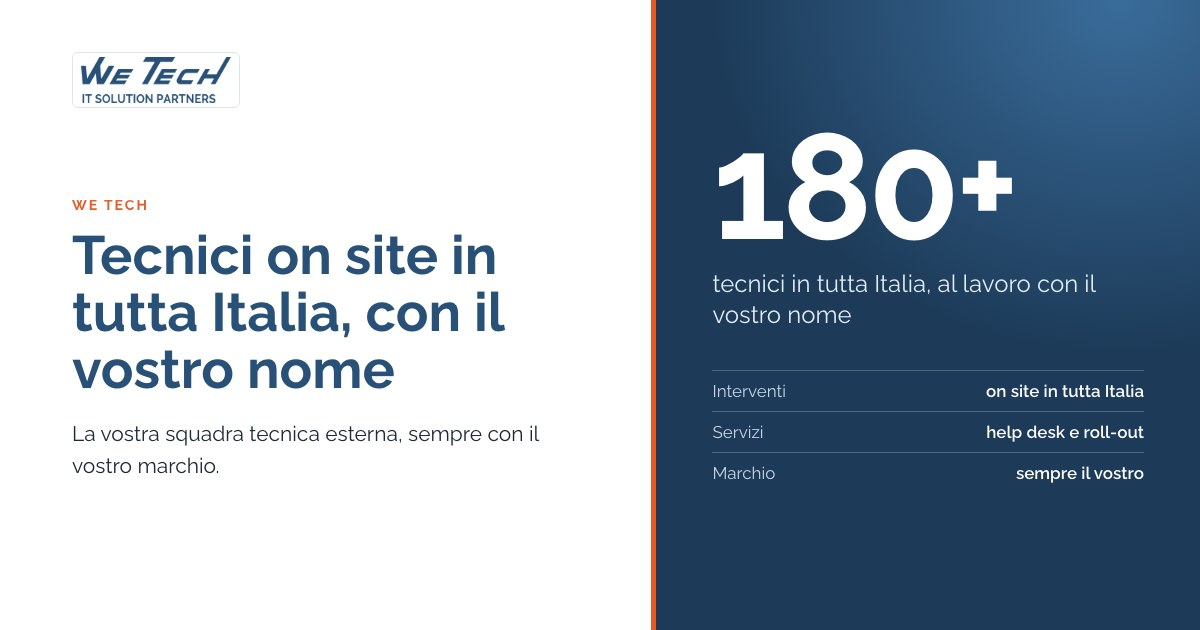
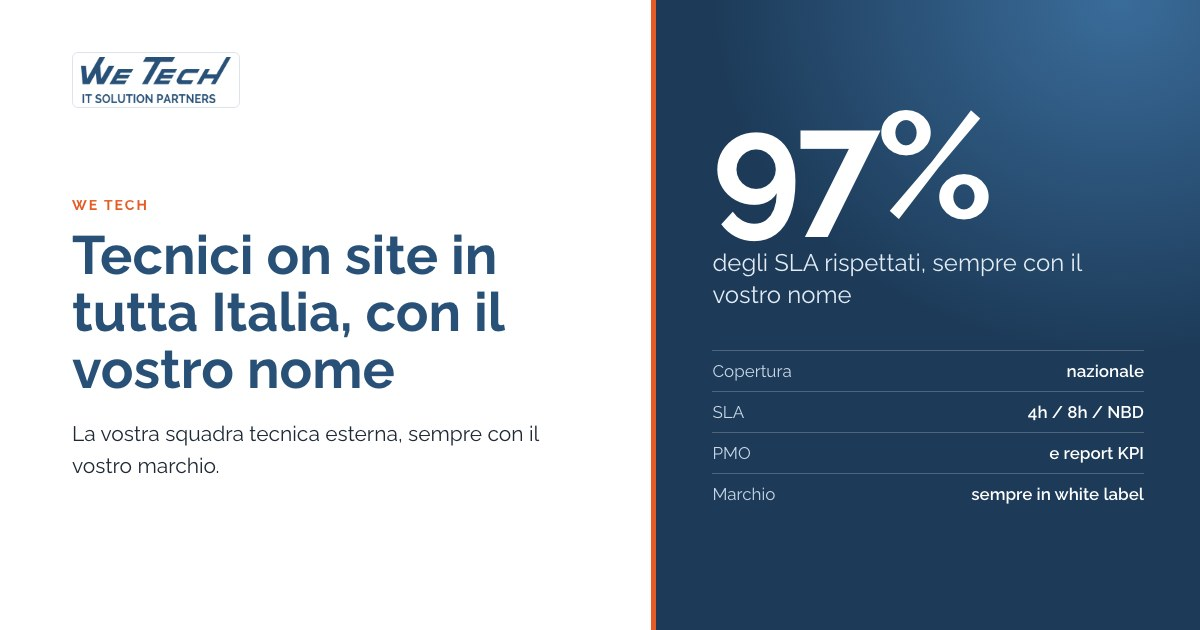
We Tech: via 180+ tecnici (non sul sito), pannello con 97% SLA, SLA 4h/8h/NBD, PMO e KPI, white label

Changed region(s): [[0.5858, 0.1508, 0.925, 0.5127], [0.8017, 0.573, 0.9558, 0.8143], [0.5858, 0.573, 0.6783, 0.8143]]

diff --git a/wetech/esempio/index.html b/wetech/esempio/index.html
@@ -128,7 +128,7 @@ html.phone .cover .r{flex:0 0 26%;border-left:0;border-top:4px solid var(--red)}
       <p class="sub">In queste pagine trova come We Tech può essere la squadra tecnica on site di Esempio Sistemi, sempre con il vostro marchio.</p>
     </div>
   </div>
-  <div class="r hv" aria-hidden="true"><div class="big">180+</div><div class="cap">tecnici in tutta Italia, al lavoro con il vostro nome</div><div class="tl"><span>Interventi<b>on site in tutta Italia</b></span><span>Servizi<b>help desk e roll-out</b></span><span>Marchio<b>sempre il vostro</b></span></div></div>
+  <div class="r hv" aria-hidden="true"><div class="big">97%</div><div class="cap">degli SLA rispettati, sempre con il vostro nome</div><div class="tl"><span>Copertura<b>nazionale</b></span><span>SLA<b>4h / 8h / NBD</b></span><span>PMO<b>e report KPI</b></span><span>Marchio<b>sempre in white label</b></span></div></div>
 </div></section>
 <section data-i="2" aria-label="Cosa facciamo"><div class="s">
   <div class="eyebrow">Cosa facciamo</div>

diff --git a/wetech/_src/template.html b/wetech/_src/template.html
@@ -128,7 +128,7 @@ html.phone .cover .r{flex:0 0 26%;border-left:0;border-top:4px solid var(--red)}
       <p class="sub">{{SUB}}</p>
     </div>
   </div>
-  <div class="r hv" aria-hidden="true"><div class="big">180+</div><div class="cap">tecnici in tutta Italia, al lavoro con il vostro nome</div><div class="tl"><span>Interventi<b>on site in tutta Italia</b></span><span>Servizi<b>help desk e roll-out</b></span><span>Marchio<b>sempre il vostro</b></span></div></div>
+  <div class="r hv" aria-hidden="true"><div class="big">97%</div><div class="cap">degli SLA rispettati, sempre con il vostro nome</div><div class="tl"><span>Copertura<b>nazionale</b></span><span>SLA<b>4h / 8h / NBD</b></span><span>PMO<b>e report KPI</b></span><span>Marchio<b>sempre in white label</b></span></div></div>
 </div></section>
 <section data-i="2" aria-label="Cosa facciamo"><div class="s">
   <div class="eyebrow">Cosa facciamo</div>
